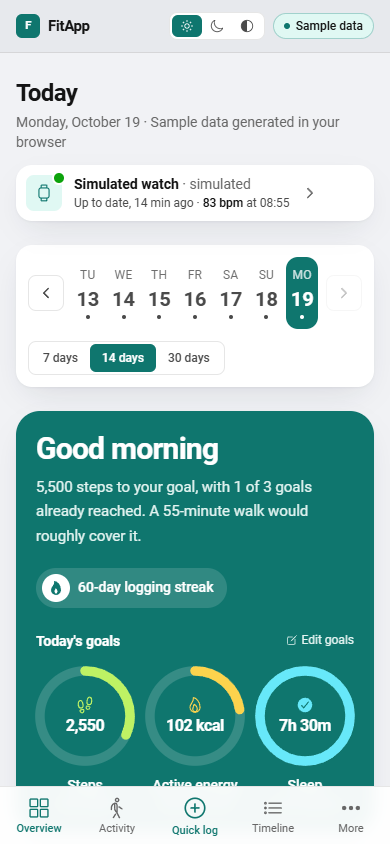
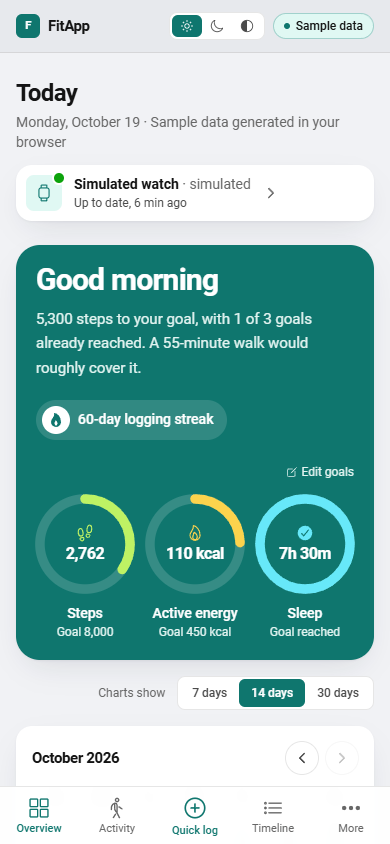
Month calendar card, separate chart range, centred hero
- Overview: a month-view calendar card heads the left column (month paging,
  Today, data dots, arrow-key navigation); the enlarged week strip is gone
  and other pages keep the regular strip.
- The chart range (7/14/30 days) gets its own control above the widgets.
- Hero: no goals title; Edit goals sits above the donuts and the greeting
  column is centred against them.
- The watch status card shows only device and sync state.

diff --git a/frontend-fitapp/src/components/MonthCalendar.vue b/frontend-fitapp/src/components/MonthCalendar.vue
@@ -1,0 +1,107 @@
+<template>
+  <section class="card p-4 sm:p-5" aria-labelledby="month-title">
+    <div class="flex items-center gap-2">
+      <h2 id="month-title" class="flex-1 text-[15px] font-semibold tracking-tight" aria-live="polite">{{ monthLabel }}</h2>
+      <button
+        v-if="modelValue !== today"
+        type="button"
+        class="rounded-full px-2.5 py-1 text-xs font-medium text-accent transition-colors duration-150 hover:bg-accent-soft"
+        @click="emit('update:modelValue', today)"
+      >
+        Today
+      </button>
+      <button type="button" :class="NAV" aria-label="Previous month" @click="shiftMonth(-1)">
+        <ion-icon :icon="chevronBack" aria-hidden="true" />
+      </button>
+      <button type="button" :class="NAV" aria-label="Next month" :disabled="month >= today.slice(0, 7)" @click="shiftMonth(1)">
+        <ion-icon :icon="chevronForward" aria-hidden="true" />
+      </button>
+    </div>
+
+    <div class="mt-4 grid grid-cols-7 text-center text-[11px] font-medium text-muted" aria-hidden="true">
+      <span v-for="w in WEEKDAYS" :key="w">{{ w }}</span>
+    </div>
+    <div ref="grid" class="mt-1 grid grid-cols-7 gap-y-1" role="group" :aria-label="`Choose a date in ${monthLabel}`" @keydown="onKeydown">
+      <span v-for="n in lead" :key="`lead${n}`" aria-hidden="true" />
+      <button
+        v-for="d in days"
+        :key="d.date"
+        type="button"
+        :data-date="d.date"
+        :disabled="d.date > today"
+        :tabindex="d.date === focusDate ? 0 : -1"
+        :aria-pressed="d.date === modelValue"
+        :aria-label="`${formatLongDate(d.date)}${d.date === today ? ', today' : ''}${hasData(d.date) ? '' : ', no watch data loaded'}`"
+        class="relative mx-auto grid size-9 place-items-center rounded-full text-sm transition-colors duration-150 disabled:cursor-not-allowed disabled:text-line-strong"
+        :class="
+          d.date === modelValue
+            ? 'bg-accent font-semibold text-accent-ink'
+            : d.date === today
+              ? 'font-semibold text-accent ring-1 ring-accent ring-inset hover:bg-accent-soft'
+              : 'text-ink-2 hover:enabled:bg-page hover:enabled:text-ink'
+        "
+        @click="emit('update:modelValue', d.date)"
+      >
+        <span class="tabular">{{ d.day }}</span>
+        <span
+          v-if="hasData(d.date)"
+          class="absolute bottom-1 size-1 rounded-full"
+          :class="d.date === modelValue ? 'bg-accent-ink' : 'bg-accent'"
+          aria-hidden="true"
+        />
+      </button>
+    </div>
+    <p class="mt-3 flex items-center gap-1.5 text-[11px] text-muted"><span class="size-1 rounded-full bg-accent" aria-hidden="true" />Watch data loaded</p>
+  </section>
+</template>
+
+<script setup lang="ts">
+import { computed, nextTick, ref, watch } from 'vue'
+import { IonIcon } from '@ionic/vue'
+import { chevronBack, chevronForward } from 'ionicons/icons'
+import { addDays, weekday } from '@/lib/dates'
+import { formatLongDate } from '@/lib/format'
+import type { ISODate } from '@/types/fitness'
+
+const props = defineProps<{ modelValue: ISODate; today: ISODate; hasData: (date: ISODate) => boolean }>()
+const emit = defineEmits<{ 'update:modelValue': [ISODate] }>()
+
+const WEEKDAYS = ['Su', 'Mo', 'Tu', 'We', 'Th', 'Fr', 'Sa']
+const NAV =
+  'grid size-8 place-items-center rounded-full text-ink-2 ring-1 ring-line transition-colors duration-150 hover:enabled:bg-page hover:enabled:text-ink disabled:opacity-35'
+
+const grid = ref<HTMLElement | null>(null)
+/** The month on show, "YYYY-MM"; follows the selected date and can be paged independently. */
+const month = ref(props.modelValue.slice(0, 7))
+watch(
+  () => props.modelValue,
+  (d) => (month.value = d.slice(0, 7)),
+)
+
+const first = computed(() => `${month.value}-01` as ISODate)
+const lead = computed(() => weekday(first.value))
+const days = computed(() => {
+  const out: { date: ISODate; day: number }[] = []
+  for (let d = first.value; d.startsWith(month.value); d = addDays(d, 1)) out.push({ date: d, day: Number(d.slice(8)) })
+  return out
+})
+const monthLabel = computed(() => new Date(`${first.value}T00:00:00Z`).toLocaleDateString(undefined, { month: 'long', year: 'numeric', timeZone: 'UTC' }))
+/** The one day button in the tab order: the selection when it is on show, else the 1st. */
+const focusDate = computed(() => (props.modelValue.startsWith(month.value) ? props.modelValue : first.value))
+
+function shiftMonth(step: number) {
+  const [y, m] = month.value.split('-').map(Number)
+  const next = new Date(Date.UTC(y, m - 1 + step, 1))
+  month.value = next.toISOString().slice(0, 7)
+}
+
+function onKeydown(e: KeyboardEvent) {
+  const step = { ArrowLeft: -1, ArrowRight: 1, ArrowUp: -7, ArrowDown: 7 }[e.key]
+  if (!step) return
+  e.preventDefault()
+  const target = addDays(focusDate.value, step)
+  if (target > props.today) return
+  emit('update:modelValue', target)
+  nextTick(() => grid.value?.querySelector<HTMLElement>(`[data-date="${target}"]`)?.focus())
+}
+</script>

diff --git a/frontend-fitapp/src/views/OverviewPage.vue b/frontend-fitapp/src/views/OverviewPage.vue
@@ -3,7 +3,6 @@
     <template #actions><WatchStatus class="w-full sm:w-auto sm:max-w-sm" /></template>
     <template #subtitle>{{ fitness.isToday ? `${formatLongDate(fitness.today)} · ` : '' }}{{ freshness }}</template>
     <DataState>
-      <div class="card mb-6 p-3 sm:p-4"><DateToolbar large /></div>
       <div class="stagger grid gap-4">
         <TodayNudge v-if="fitness.isToday" :day="day" />
         <!-- Today the hero shows goal progress; other days get the tiles. -->
@@ -52,9 +51,17 @@
           </div>
         </section>
 
-        <!-- Dashboard: a journal column beside the watch widgets, then the body signals. -->
+        <!-- Dashboard: calendar and journal on the left, the watch widgets beside them. -->
+        <div class="flex flex-wrap items-center justify-end gap-x-3 gap-y-2">
+          <span v-if="fitness.loading && fitness.loaded" class="text-xs text-muted" role="status">Updating…</span>
+          <span class="text-xs text-muted">Charts show</span>
+          <RangeTabs :model-value="fitness.rangeDays" @update:model-value="fitness.setRange" />
+        </div>
         <div class="grid gap-4 md:grid-cols-2 lg:grid-cols-3 xl:grid-cols-4">
-          <div class="md:row-span-2"><JournalState><TodayEntries class="h-full" /></JournalState></div>
+          <div class="flex flex-col gap-4 md:row-span-3">
+            <MonthCalendar :model-value="fitness.selectedDate" :today="fitness.today" :has-data="hasData" @update:model-value="fitness.selectDate" />
+            <JournalState><TodayEntries class="flex-1" /></JournalState>
+          </div>
 
           <WidgetCard
             class="md:col-span-1 lg:col-span-2"
@@ -187,7 +194,7 @@
               description="Overnight skin temperature versus your baseline by day"
             />
           </WidgetCard>
-          <div class="md:col-span-2 lg:col-span-3"><JournalState><WellbeingOverview /></JournalState></div>
+          <div class="md:col-span-2"><JournalState><WellbeingOverview /></JournalState></div>
         </div>
       </div>
     </DataState>
@@ -201,7 +208,8 @@ import AppShell from '@/components/AppShell.vue'
 import BarChart from '@/components/charts/BarChart.vue'
 import LineChart from '@/components/charts/LineChart.vue'
 import DataState from '@/components/DataState.vue'
-import DateToolbar from '@/components/DateToolbar.vue'
+import MonthCalendar from '@/components/MonthCalendar.vue'
+import RangeTabs from '@/components/RangeTabs.vue'
 import GoalMeter from '@/components/GoalMeter.vue'
 import WatchStatus from '@/components/WatchStatus.vue'
 import WellbeingOverview from '@/components/WellbeingOverview.vue'
@@ -216,7 +224,7 @@ import { progress, trend } from '@/data/derive'
 import { formatDeviation } from '@/data/signals'
 import { EMPTY, formatClock, formatDuration, formatInt, formatLongDate, formatPercentChange } from '@/lib/format'
 
-const { fitness, freshness, goals, days, rangeDaysList, selectedDay: day } = useFitnessData()
+const { fitness, freshness, goals, days, rangeDaysList, selectedDay: day, hasData } = useFitnessData()
 const journal = useJournalStore()
 onMounted(() => journal.ensureLoaded())
 

diff --git a/frontend-fitapp/src/components/CalendarComp.vue b/frontend-fitapp/src/components/CalendarComp.vue
@@ -14,19 +14,16 @@
         :aria-pressed="day.date === modelValue"
         :aria-label="`${formatLongDate(day.date)}${day.date === today ? ', today' : ''}${hasData(day.date) ? '' : ', no data'}`"
         :data-date="day.date"
-        class="flex min-w-0 flex-col items-center gap-0.5 text-center transition-colors duration-150 disabled:cursor-not-allowed disabled:opacity-35"
-        :class="[
-          large ? 'rounded-xl py-2.5' : 'rounded-lg py-1.5',
+        class="flex min-w-0 flex-col items-center gap-0.5 rounded-lg py-1.5 text-center transition-colors duration-150 disabled:cursor-not-allowed disabled:opacity-35"
+        :class="
           day.date === modelValue
             ? 'bg-accent text-accent-ink'
-            : large
-              ? 'text-ink-2 hover:enabled:bg-page hover:enabled:text-ink'
-              : 'text-ink-2 hover:enabled:bg-surface hover:enabled:text-ink',
-        ]"
+            : 'text-ink-2 hover:enabled:bg-surface hover:enabled:text-ink'
+        "
         @click="emit('update:modelValue', day.date)"
       >
-        <span class="uppercase tracking-wide opacity-80" :class="large ? 'text-xs' : 'text-[11px]'">{{ day.weekday }}</span>
-        <span class="tabular font-medium" :class="[large ? 'text-xl font-semibold' : 'text-sm', day.date === today && day.date !== modelValue ? 'text-accent' : '']">{{ day.dayOfMonth }}</span>
+        <span class="text-[11px] uppercase tracking-wide opacity-80">{{ day.weekday }}</span>
+        <span class="tabular text-sm font-medium" :class="day.date === today && day.date !== modelValue ? 'text-accent' : ''">{{ day.dayOfMonth }}</span>
         <span
           class="size-1 rounded-full"
           :class="hasData(day.date) ? (day.date === modelValue ? 'bg-accent-ink' : 'bg-ink-2') : 'bg-transparent'"
@@ -53,8 +50,6 @@ const props = defineProps<{
   modelValue: ISODate
   today: ISODate
   hasData: (date: ISODate) => boolean
-  /** Bigger chips for the overview, where the strip sits in its own card. */
-  large?: boolean
 }>()
 const emit = defineEmits<{ 'update:modelValue': [ISODate] }>()
 

diff --git a/frontend-fitapp/src/components/TodayNudge.vue b/frontend-fitapp/src/components/TodayNudge.vue
@@ -1,8 +1,8 @@
 <template>
   <section aria-label="Today at a glance" class="hero flex flex-col gap-6 rounded-3xl p-5 sm:p-7 lg:flex-row lg:items-center">
-    <div class="min-w-0 flex-1">
-      <p class="text-3xl font-semibold tracking-tight sm:text-4xl">{{ greeting }}</p>
-      <p class="mt-2 max-w-md text-[15px] leading-relaxed text-ink-2">{{ message }}</p>
+    <div class="flex min-w-0 flex-1 flex-col">
+      <p class="text-3xl leading-none font-semibold tracking-tight sm:text-4xl">{{ greeting }}</p>
+      <p class="mt-3 max-w-md text-[15px] leading-relaxed text-ink-2">{{ message }}</p>
       <div class="mt-5 flex flex-wrap items-center gap-2">
         <span v-if="streak > 1" class="inline-flex items-center gap-2 rounded-full bg-[var(--chip)] py-1.5 pr-3.5 pl-1.5 text-sm font-medium">
           <span class="grid size-7 place-items-center rounded-full bg-white text-[var(--hero)]">
@@ -16,13 +16,12 @@
 
     <!-- One donut per goal: the ring shows progress, the centre names it and gives the value. -->
     <div class="shrink-0">
-      <div class="mb-3 flex items-baseline justify-between gap-4">
-        <h2 id="goals-today" class="text-sm font-semibold">Today's goals</h2>
+      <div class="mb-3 flex justify-end">
         <RouterLink to="/settings" class="inline-flex items-center gap-1 text-xs text-ink-2 hover:text-ink">
           <ion-icon :icon="createOutline" aria-hidden="true" />Edit goals
         </RouterLink>
       </div>
-      <ul class="grid grid-cols-3 gap-3 sm:gap-6" aria-labelledby="goals-today">
+      <ul class="grid grid-cols-3 gap-3 sm:gap-6" aria-label="Goals today">
         <li v-for="(r, i) in rings" :key="r.label" class="flex flex-col items-center text-center">
           <div class="relative size-[6.5rem] sm:size-36">
             <svg viewBox="0 0 120 120" class="size-full -rotate-90" aria-hidden="true">

diff --git a/frontend-fitapp/src/components/WatchStatus.vue b/frontend-fitapp/src/components/WatchStatus.vue
@@ -10,10 +10,6 @@
       </span>
       <span class="block truncate text-xs text-ink-2">
         {{ SYNC_LABELS[state] }}<template v-if="status?.lastIngestedAt">, {{ formatRelative(status.lastIngestedAt) }}</template>
-        <template v-if="status?.latestHeartRate">
-          · <span class="tabular font-medium text-ink">{{ status.latestHeartRate.bpm }} bpm</span> at {{ formatClock(status.latestHeartRate.at)
-          }}<template v-if="status.latestHeartRate.at.slice(0, 10) !== fitness.today">, {{ formatShortDate(status.latestHeartRate.at.slice(0, 10)) }}</template>
-        </template>
       </span>
     </span>
     <ion-icon :icon="chevronForwardOutline" aria-hidden="true" class="shrink-0 text-muted transition-transform duration-150 group-hover:translate-x-0.5" />
@@ -25,7 +21,7 @@ import { computed } from 'vue'
 import { IonIcon } from '@ionic/vue'
 import { chevronForwardOutline, watchOutline } from 'ionicons/icons'
 import { SYNC_LABELS, syncState } from '@/data/connection'
-import { formatClock, formatRelative, formatShortDate } from '@/lib/format'
+import { formatRelative } from '@/lib/format'
 import { useFitnessStore } from '@/stores/fitness'
 import { useModeStore } from '@/stores/mode'
 

diff --git a/frontend-fitapp/src/components/DateToolbar.vue b/frontend-fitapp/src/components/DateToolbar.vue
@@ -1,8 +1,7 @@
 <template>
-  <div class="flex flex-col gap-3 md:flex-row md:items-center" :class="large ? '' : 'mb-8'">
+  <div class="mb-8 flex flex-col gap-3 md:flex-row md:items-center">
     <CalendarComp
-      :class="large ? 'md:flex-1' : 'md:max-w-md md:flex-1'"
-      :large="large"
+      class="md:max-w-md md:flex-1"
       :model-value="fitness.selectedDate"
       :today="fitness.today"
       :has-data="hasData"
@@ -28,6 +27,6 @@ import CalendarComp from '@/components/CalendarComp.vue'
 import RangeTabs from '@/components/RangeTabs.vue'
 import { useFitnessData } from '@/composables/useFitnessData'
 
-withDefaults(defineProps<{ showRange?: boolean; large?: boolean }>(), { showRange: true, large: false })
+withDefaults(defineProps<{ showRange?: boolean }>(), { showRange: true })
 const { fitness, hasData } = useFitnessData()
 </script>
